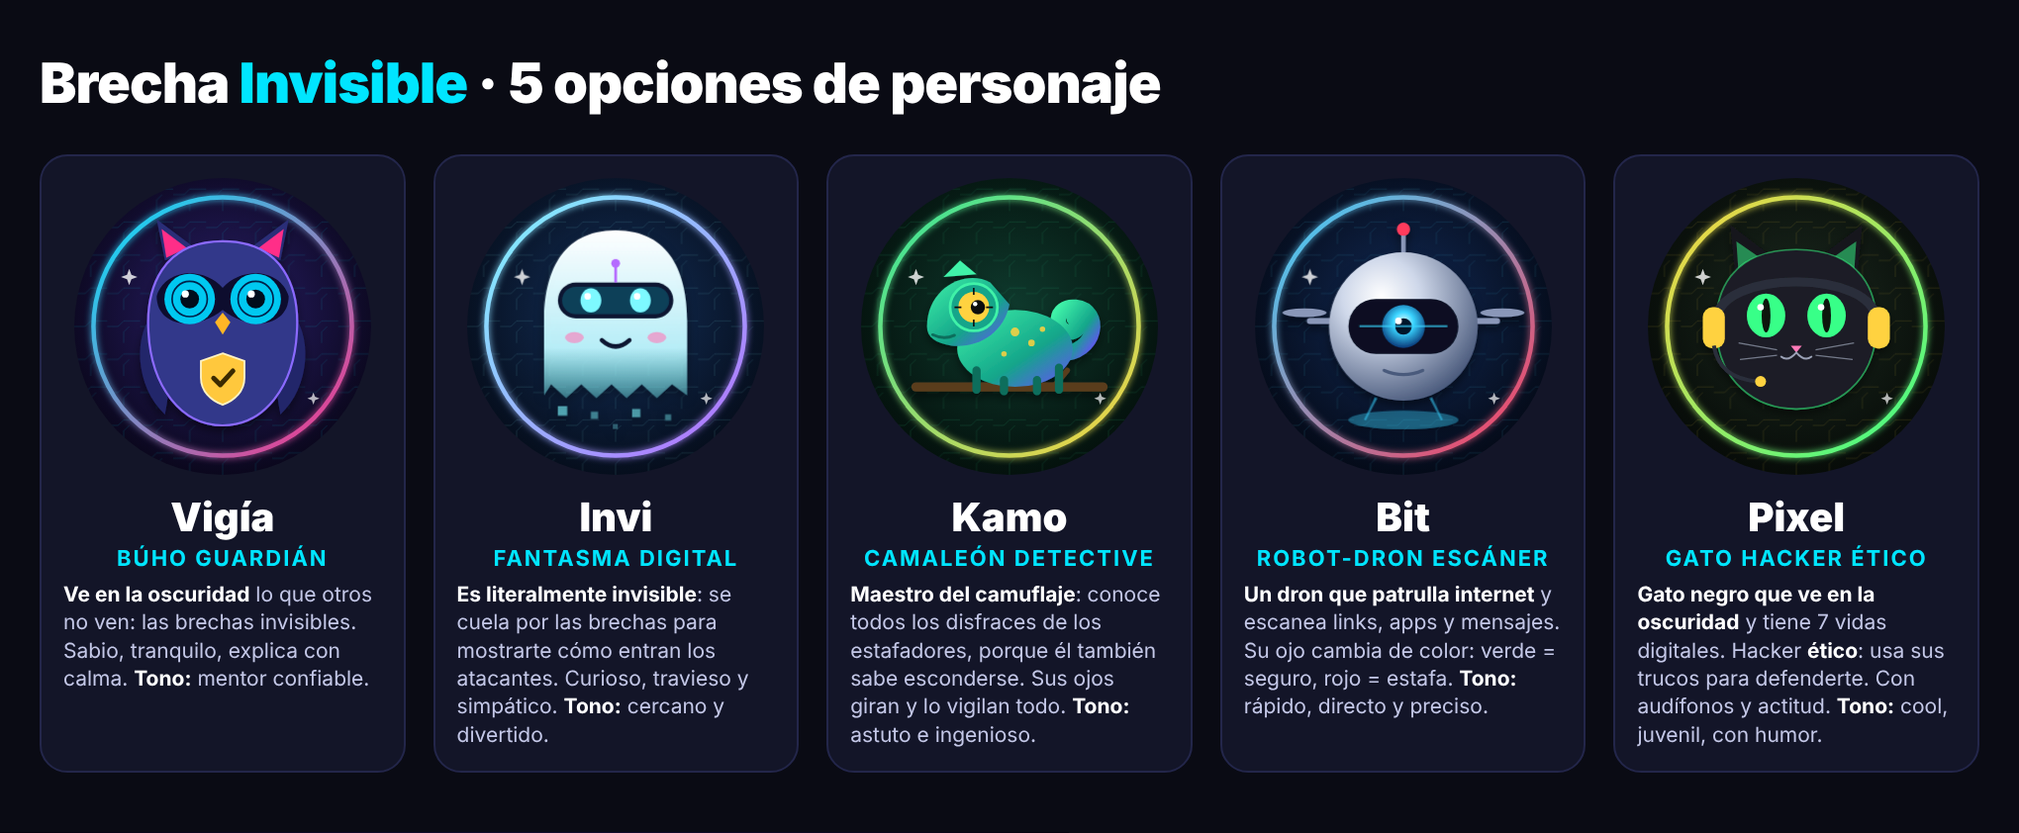
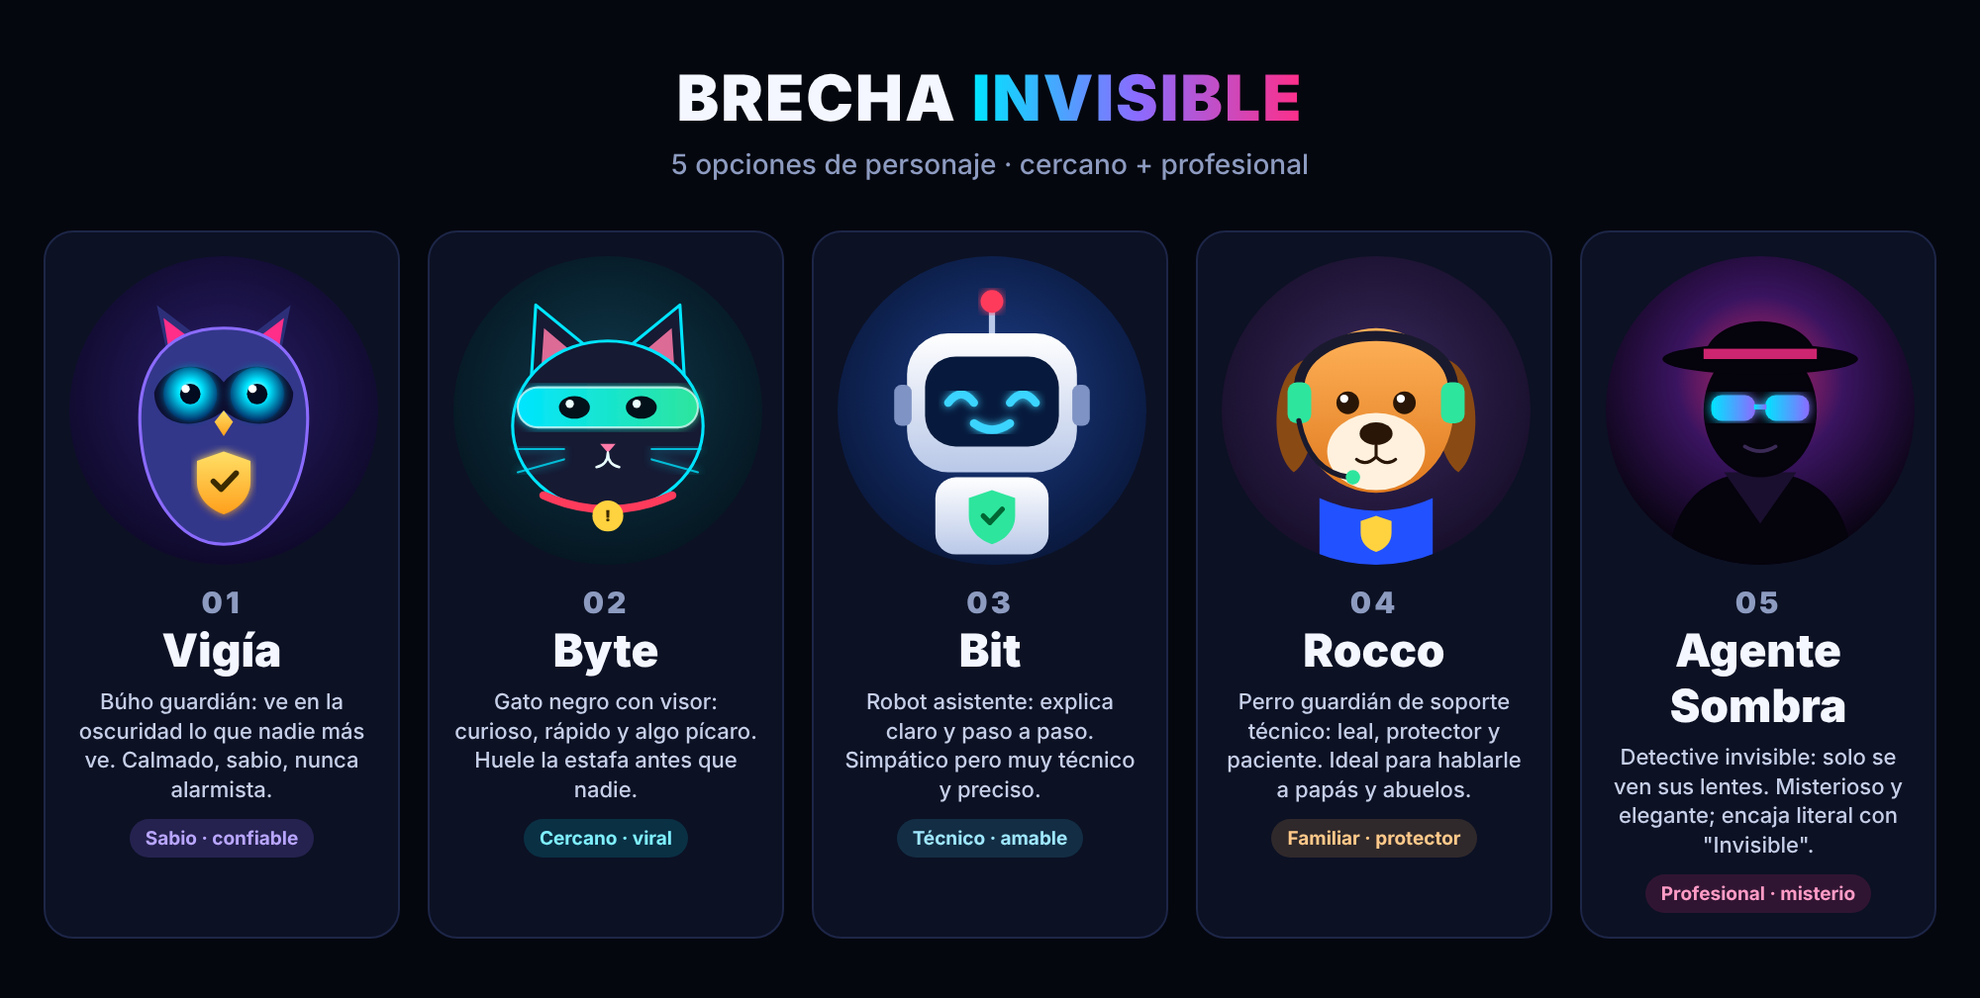
Brecha Invisible: 5 propuestas de personaje
Claude-Session: https://claude.ai/code/session_016hoaWVheZW2tahB4y2H6aY

diff --git a/marca/personajes.html b/marca/personajes.html
@@ -1,88 +1,117 @@
 <!doctype html><html><head><meta charset="utf-8"><title>Personajes Brecha Invisible</title>
-<style>*{margin:0;box-sizing:border-box}body{background:#0a0b14;font-family:Inter,system-ui,sans-serif;color:#fff}
-#sheet{width:2040px;padding:50px 40px 60px;display:grid;grid-template-columns:repeat(5,1fr);gap:28px}
-h1{grid-column:1/-1;font-size:56px;font-weight:900;letter-spacing:-1px;margin-bottom:10px}h1 span{color:#00e5ff}
-.c{background:#131528;border:2px solid #23264a;border-radius:28px;padding:22px;text-align:center}
-.c svg{width:300px;height:300px;border-radius:50%;display:block;margin:0 auto 18px}
-.n{font-size:40px;font-weight:900}.t{font-size:22px;color:#00e5ff;font-weight:700;margin:4px 0 10px;text-transform:uppercase;letter-spacing:2px}
-.d{font-size:21px;line-height:1.35;color:#c4c8e8;text-align:left}.d b{color:#fff}
-.v{width:1080px;height:1080px}</style></head><body>
-<div id="sheet"><h1>Brecha <span>Invisible</span> · 5 opciones de personaje</h1></div>
-<div id="solo"></div>
-<script>
-const frame=(id,c1,c2,inner,bg1,bg2)=>`<svg viewBox="0 0 1080 1080" id="${id}"><defs>
-<radialGradient id="${id}bg" cx="50%" cy="45%" r="65%"><stop offset="0" stop-color="${bg1}"/><stop offset="1" stop-color="${bg2}"/></radialGradient>
-<linearGradient id="${id}ring" x1="0" y1="0" x2="1" y2="1"><stop offset="0" stop-color="${c1}"/><stop offset="1" stop-color="${c2}"/></linearGradient>
-<filter id="${id}g" x="-50%" y="-50%" width="200%" height="200%"><feGaussianBlur stdDeviation="14" result="b"/><feMerge><feMergeNode in="b"/><feMergeNode in="SourceGraphic"/></feMerge></filter>
-<filter id="${id}sh"><feDropShadow dx="0" dy="18" stdDeviation="18" flood-color="#000" flood-opacity=".5"/></filter>
-<pattern id="${id}p" width="120" height="120" patternUnits="userSpaceOnUse"><path d="M0 60 H40 L60 40 H120 M60 120 V80 L80 60" fill="none" stroke="${c1}" stroke-opacity=".14" stroke-width="3"/></pattern></defs>
-<rect width="1080" height="1080" fill="url(#${id}bg)"/><rect width="1080" height="1080" fill="url(#${id}p)"/>
-<circle cx="540" cy="540" r="470" fill="none" stroke="url(#${id}ring)" stroke-width="16" filter="url(#${id}g)"/>
-<g filter="url(#${id}sh)">${inner}</g>
-<g fill="#fff"><path d="M200 330 l8 22 22 8 -22 8 -8 22 -8 -22 -22 -8 22 -8z" opacity=".8"/><path d="M870 780 l6 16 16 6 -16 6 -6 16 -6 -16 -16 -6 16 -6z" opacity=".7"/></g></svg>`;
+<link href="https://fonts.googleapis.com/css2?family=Inter:wght@500;700;900&display=swap" rel="stylesheet">
+<style>
+*{margin:0;box-sizing:border-box}
+body{background:#05070f;font-family:Inter,"Inter Display",system-ui,sans-serif;color:#f4f7ff;width:2000px;padding:60px}
+h1{font-size:64px;font-weight:900;letter-spacing:2px;text-align:center}
+h1 span{background:linear-gradient(90deg,#00e5ff,#8b6bff,#ff2e88);-webkit-background-clip:text;color:transparent}
+.sub{text-align:center;color:#8d9bc0;font-size:28px;margin:12px 0 50px}
+.row{display:flex;gap:28px;justify-content:center}
+.c{width:360px;background:#0c1124;border:2px solid #1d2647;border-radius:30px;padding:24px;text-align:center}
+.av{width:312px;height:312px;border-radius:50%;overflow:hidden;margin:0 auto 20px}
+.av svg{width:100%;height:100%;display:block}
+.n{font-size:30px;font-weight:900;color:#8d9bc0;letter-spacing:3px}
+.nm{font-size:46px;font-weight:900;margin:2px 0 10px}
+.t{font-size:22px;color:#c6cfe8;line-height:1.35;min-height:118px}
+.tag{display:inline-block;margin-top:14px;padding:8px 16px;border-radius:999px;font-size:19px;font-weight:700}
+</style></head><body>
+<h1>BRECHA <span>INVISIBLE</span></h1>
+<div class="sub">5 opciones de personaje · cercano + profesional</div>
+<div class="row">
 
-const P=[
-{id:"vigia",n:"Vigía",t:"Búho guardián",c1:"#00e5ff",c2:"#ff2e88",bg1:"#2a1f6b",bg2:"#05030f",
- d:"<b>Ve en la oscuridad</b> lo que otros no ven: las brechas invisibles. Sabio, tranquilo, explica con calma. <b>Tono:</b> mentor confiable.",
- svg:`<path d="M330 300 L300 150 L440 255 Z" fill="#2c2f78"/><path d="M750 300 L780 150 L640 255 Z" fill="#2c2f78"/>
- <path d="M335 290 L318 185 L410 255 Z" fill="#ff2e88"/><path d="M745 290 L762 185 L670 255 Z" fill="#ff2e88"/>
- <path d="M300 480 C210 560 220 760 330 860 C350 760 360 620 360 520 Z" fill="#23266a"/><path d="M780 480 C870 560 860 760 750 860 C730 760 720 620 720 520 Z" fill="#23266a"/>
- <path d="M540 230 C760 230 820 400 810 560 C800 760 690 900 540 900 C390 900 280 760 270 560 C260 400 320 230 540 230 Z" fill="#33378a" stroke="#8b6bff" stroke-width="8"/>
- <path d="M300 430 C330 330 470 320 540 400 C610 320 750 330 780 430 C780 540 640 560 540 480 C440 560 300 540 300 430 Z" fill="#0d0e2e"/>
- <circle cx="420" cy="440" r="92" fill="#00c8f0"/><circle cx="660" cy="440" r="92" fill="#00c8f0"/><circle cx="420" cy="440" r="64" fill="none" stroke="#03204a" stroke-width="6"/><circle cx="660" cy="440" r="64" fill="none" stroke="#03204a" stroke-width="6"/>
- <circle cx="420" cy="440" r="34" fill="#020b1f"/><circle cx="660" cy="440" r="34" fill="#020b1f"/><circle cx="404" cy="422" r="13" fill="#fff"/><circle cx="644" cy="422" r="13" fill="#fff"/>
- <path d="M540 490 L568 525 L540 570 L512 525 Z" fill="#ffb627"/>
- <g transform="translate(540 715) scale(1.1)"><path d="M0 -70 L72 -45 V10 C72 55 40 85 0 100 C-40 85 -72 55 -72 10 V-45 Z" fill="#ffc83d" stroke="#fff3c4" stroke-width="6"/><path d="M-30 12 L-8 34 L34 -12" fill="none" stroke="#3b2a00" stroke-width="16" stroke-linecap="round" stroke-linejoin="round"/></g>`},
-{id:"invi",n:"Invi",t:"Fantasma digital",c1:"#7df9ff",c2:"#b56bff",bg1:"#14305a",bg2:"#030812",
- d:"<b>Es literalmente invisible</b>: se cuela por las brechas para mostrarte cómo entran los atacantes. Curioso, travieso y simpático. <b>Tono:</b> cercano y divertido.",
- svg:`<defs><linearGradient id="gh" x1="0" y1="0" x2="0" y2="1"><stop offset="0" stop-color="#ffffff"/><stop offset=".7" stop-color="#bff6ff" stop-opacity=".95"/><stop offset="1" stop-color="#7df9ff" stop-opacity=".35"/></linearGradient></defs>
- <path d="M540 190 C740 190 800 350 800 520 V790 L745 750 L690 800 L635 750 L580 800 L525 750 L470 800 L415 750 L360 800 L305 750 L280 790 V520 C280 350 340 190 540 190 Z" fill="url(#gh)"/>
- <g fill="#7df9ff"><rect x="330" y="830" width="34" height="34" opacity=".6"/><rect x="450" y="850" width="26" height="26" opacity=".45"/><rect x="600" y="840" width="30" height="30" opacity=".55"/><rect x="720" y="860" width="22" height="22" opacity=".4"/><rect x="530" y="895" width="18" height="18" opacity=".3"/></g>
- <rect x="330" y="380" width="420" height="130" rx="65" fill="#0b1630"/><rect x="345" y="395" width="390" height="100" rx="50" fill="#00e5ff" opacity=".2"/>
- <ellipse cx="450" cy="445" rx="38" ry="44" fill="#7df9ff"/><ellipse cx="630" cy="445" rx="38" ry="44" fill="#7df9ff"/><circle cx="438" cy="430" r="12" fill="#fff"/><circle cx="618" cy="430" r="12" fill="#fff"/>
- <path d="M490 590 Q540 635 590 590" fill="none" stroke="#0b1630" stroke-width="16" stroke-linecap="round"/>
- <ellipse cx="390" cy="580" rx="34" ry="20" fill="#ff7ab8" opacity=".6"/><ellipse cx="690" cy="580" rx="34" ry="20" fill="#ff7ab8" opacity=".6"/>
- <path d="M540 380 V320" stroke="#b56bff" stroke-width="10"/><circle cx="540" cy="310" r="16" fill="#b56bff"/>`},
-{id:"kamo",n:"Kamo",t:"Camaleón detective",c1:"#2ee59d",c2:"#ffd23f",bg1:"#0f3b2e",bg2:"#020a07",
- d:"<b>Maestro del camuflaje</b>: conoce todos los disfraces de los estafadores, porque él también sabe esconderse. Sus ojos giran y lo vigilan todo. <b>Tono:</b> astuto e ingenioso.",
- svg:`<defs><linearGradient id="kb" x1="0" y1="0" x2="1" y2="1"><stop offset="0" stop-color="#3ff2a8"/><stop offset=".6" stop-color="#14a58a"/><stop offset="1" stop-color="#6b4bff"/></linearGradient></defs>
- <path d="M200 760 H880" stroke="#5a3d1e" stroke-width="34" stroke-linecap="round"/><path d="M700 760 l50 -60" stroke="#5a3d1e" stroke-width="20" stroke-linecap="round"/>
- <path d="M720 640 C860 640 880 480 780 470 C700 462 700 560 760 560 C800 560 800 510 775 510" fill="none" stroke="url(#kb)" stroke-width="56" stroke-linecap="round"/>
- <ellipse cx="560" cy="620" rx="210" ry="140" fill="url(#kb)"/>
- <path d="M420 700 V770 M520 735 V775 M640 735 V775 M720 690 V770" stroke="#0d6e5c" stroke-width="30" stroke-linecap="round"/>
- <path d="M240 540 C240 400 380 330 470 380 L540 460 C520 560 430 620 330 610 C270 600 240 580 240 540 Z" fill="url(#kb)"/>
- <path d="M300 360 L360 300 L420 350" fill="#3ff2a8"/>
- <circle cx="410" cy="470" r="86" fill="#14a58a" stroke="#3ff2a8" stroke-width="10"/><circle cx="410" cy="470" r="56" fill="#ffd23f"/>
- <circle cx="425" cy="470" r="26" fill="#111"/><path d="M410 400 V425 M410 515 V540 M340 470 H365 M455 470 H480" stroke="#111" stroke-width="6"/><circle cx="415" cy="458" r="8" fill="#fff"/>
- <path d="M260 570 Q300 590 340 572" fill="none" stroke="#0d6e5c" stroke-width="10" stroke-linecap="round"/>
- <g fill="#ffd23f" opacity=".85"><circle cx="560" cy="560" r="16"/><circle cx="620" cy="600" r="12"/><circle cx="520" cy="640" r="10"/><circle cx="660" cy="550" r="10"/></g>`},
-{id:"bit",n:"Bit",t:"Robot-dron escáner",c1:"#3ad4ff",c2:"#ff3b5c",bg1:"#122a55",bg2:"#02050e",
- d:"<b>Un dron que patrulla internet</b> y escanea links, apps y mensajes. Su ojo cambia de color: verde = seguro, rojo = estafa. <b>Tono:</b> rápido, directo y preciso.",
- svg:`<defs><radialGradient id="bm" cx="35%" cy="30%" r="75%"><stop offset="0" stop-color="#ffffff"/><stop offset=".35" stop-color="#cfd8ea"/><stop offset="1" stop-color="#4a5a7c"/></radialGradient>
- <radialGradient id="be" cx="50%" cy="40%" r="60%"><stop offset="0" stop-color="#eaffff"/><stop offset=".4" stop-color="#3ad4ff"/><stop offset="1" stop-color="#0a3a7a"/></radialGradient></defs>
- <ellipse cx="540" cy="880" rx="200" ry="34" fill="#3ad4ff" opacity=".35"/>
- <path d="M440 800 L400 880 M640 800 L680 880" stroke="#3ad4ff" stroke-width="8" opacity=".5"/>
- <path d="M300 520 H200 M780 520 H880" stroke="#8a97b8" stroke-width="22" stroke-linecap="round"/><ellipse cx="180" cy="490" rx="80" ry="16" fill="#8a97b8"/><ellipse cx="900" cy="490" rx="80" ry="16" fill="#8a97b8"/>
- <circle cx="540" cy="540" r="270" fill="url(#bm)"/>
- <path d="M540 270 V200" stroke="#8a97b8" stroke-width="16"/><circle cx="540" cy="186" r="24" fill="#ff3b5c"/>
- <rect x="340" y="440" width="400" height="200" rx="100" fill="#0a1124"/>
- <circle cx="540" cy="540" r="78" fill="url(#be)"/><circle cx="540" cy="540" r="30" fill="#04122b"/><circle cx="522" cy="520" r="12" fill="#fff"/>
- <rect x="380" y="535" width="320" height="8" fill="#3ad4ff" opacity=".6"/>
- <path d="M470 700 Q540 730 610 700" fill="none" stroke="#4a5a7c" stroke-width="12" stroke-linecap="round"/>`},
-{id:"pixel",n:"Pixel",t:"Gato hacker ético",c1:"#ffd23f",c2:"#39ff88",bg1:"#1c2a1f",bg2:"#030604",
- d:"<b>Gato negro que ve en la oscuridad</b> y tiene 7 vidas digitales. Hacker <b>ético</b>: usa sus trucos para defenderte. Con audífonos y actitud. <b>Tono:</b> cool, juvenil, con humor.",
- svg:`<path d="M320 380 L300 170 L470 300 Z" fill="#15161c"/><path d="M760 380 L780 170 L610 300 Z" fill="#15161c"/>
- <path d="M330 350 L322 230 L430 305 Z" fill="#39ff88" opacity=".5"/><path d="M750 350 L758 230 L650 305 Z" fill="#39ff88" opacity=".5"/>
- <path d="M540 260 C780 260 840 420 830 560 C820 740 690 840 540 840 C390 840 260 740 250 560 C240 420 300 260 540 260 Z" fill="#1b1d25" stroke="#39ff88" stroke-width="6" stroke-opacity=".5"/>
- <path d="M250 520 C250 330 830 330 830 520" fill="none" stroke="#2b2e3a" stroke-width="34"/>
- <rect x="200" y="470" width="80" height="150" rx="36" fill="#ffd23f"/><rect x="800" y="470" width="80" height="150" rx="36" fill="#ffd23f"/>
- <path d="M240 610 Q260 730 400 740" fill="none" stroke="#2b2e3a" stroke-width="14"/><circle cx="410" cy="740" r="20" fill="#ffd23f"/>
- <ellipse cx="430" cy="500" rx="70" ry="80" fill="#39ff88"/><ellipse cx="650" cy="500" rx="70" ry="80" fill="#39ff88"/>
- <ellipse cx="430" cy="500" rx="16" ry="62" fill="#07130b"/><ellipse cx="650" cy="500" rx="16" ry="62" fill="#07130b"/><circle cx="410" cy="470" r="12" fill="#fff"/><circle cx="630" cy="470" r="12" fill="#fff"/>
- <path d="M520 610 L560 610 L540 635 Z" fill="#ff7ab8"/><path d="M540 635 Q510 670 485 650 M540 635 Q570 670 595 650" fill="none" stroke="#9aa0b5" stroke-width="7" stroke-linecap="round"/>
- <g stroke="#9aa0b5" stroke-width="5" opacity=".7"><path d="M470 625 L330 600 M470 645 L335 660 M610 625 L750 600 M610 645 L745 660"/></g>`}
-];
-const sheet=document.getElementById('sheet'),solo=document.getElementById('solo');
-P.forEach(p=>{sheet.insertAdjacentHTML('beforeend',`<div class="c">${frame(p.id,p.c1,p.c2,p.svg,p.bg1,p.bg2)}<div class="n">${p.n}</div><div class="t">${p.t}</div><div class="d">${p.d}</div></div>`);
- solo.insertAdjacentHTML('beforeend',`<div class="v" id="solo-${p.id}">${frame('s'+p.id,p.c1,p.c2,p.svg,p.bg1,p.bg2).replace('<svg ','<svg width="1080" height="1080" ')}</div>`);});
-</script></body></html>
+<!-- 1 VIGÍA búho -->
+<div class="c"><div class="av" id="p1"><svg viewBox="0 0 600 600">
+<defs><radialGradient id="b1" cx="50%" cy="45%" r="65%"><stop offset="0" stop-color="#2a1f6b"/><stop offset="1" stop-color="#0a0620"/></radialGradient>
+<radialGradient id="e1" cx="50%" cy="45%" r="55%"><stop offset="0" stop-color="#eaffff"/><stop offset=".4" stop-color="#00e5ff"/><stop offset="1" stop-color="#03306a"/></radialGradient>
+<linearGradient id="g1" x1="0" y1="0" x2="0" y2="1"><stop offset="0" stop-color="#ffe066"/><stop offset="1" stop-color="#ff9f1c"/></linearGradient>
+<filter id="f1"><feGaussianBlur stdDeviation="8" result="b"/><feMerge><feMergeNode in="b"/><feMergeNode in="SourceGraphic"/></feMerge></filter></defs>
+<rect width="600" height="600" fill="url(#b1)"/>
+<path d="M190 190 L170 95 L255 160Z M410 190 L430 95 L345 160Z" fill="#2c2f78"/><path d="M193 182 L183 120 L238 162Z M407 182 L417 120 L362 162Z" fill="#ff2e88"/>
+<path d="M300 140 C430 140 470 240 462 340 C455 460 390 560 300 560 C210 560 145 460 138 340 C130 240 170 140 300 140Z" fill="#33378a" stroke="#8b6bff" stroke-width="6"/>
+<path d="M165 265 C185 205 265 200 300 245 C335 200 415 205 435 265 C435 330 355 345 300 300 C245 345 165 330 165 265Z" fill="#0d0e2e"/>
+<g filter="url(#f1)"><circle cx="235" cy="268" r="52" fill="url(#e1)"/><circle cx="365" cy="268" r="52" fill="url(#e1)"/></g>
+<circle cx="235" cy="268" r="20" fill="#020b1f"/><circle cx="365" cy="268" r="20" fill="#020b1f"/><circle cx="226" cy="258" r="8" fill="#fff"/><circle cx="356" cy="258" r="8" fill="#fff"/>
+<path d="M300 300 L318 322 L300 350 L282 322Z" fill="url(#g1)"/>
+<g transform="translate(300 430)" filter="url(#f1)"><path d="M0 -50 L52 -32 V8 C52 40 28 62 0 72 C-28 62 -52 40 -52 8 V-32Z" fill="url(#g1)"/><path d="M-20 8 L-5 23 L24 -8" fill="none" stroke="#3b2a00" stroke-width="11" stroke-linecap="round" stroke-linejoin="round"/></g>
+</svg></div><div class="n">01</div><div class="nm">Vigía</div>
+<div class="t">Búho guardián: ve en la oscuridad lo que nadie más ve. Calmado, sabio, nunca alarmista.</div>
+<span class="tag" style="background:#8b6bff33;color:#b9a6ff">Sabio · confiable</span></div>
+
+<!-- 2 BYTE gato -->
+<div class="c"><div class="av"><svg viewBox="0 0 600 600">
+<defs><radialGradient id="b2" cx="50%" cy="45%" r="65%"><stop offset="0" stop-color="#103a4d"/><stop offset="1" stop-color="#03111a"/></radialGradient>
+<linearGradient id="v2" x1="0" x2="1"><stop offset="0" stop-color="#00e5ff"/><stop offset="1" stop-color="#2ee59d"/></linearGradient>
+<filter id="f2"><feGaussianBlur stdDeviation="9" result="b"/><feMerge><feMergeNode in="b"/><feMergeNode in="SourceGraphic"/></feMerge></filter></defs>
+<rect width="600" height="600" fill="url(#b2)"/>
+<path d="M150 260 L160 95 L270 185Z M450 260 L440 95 L330 185Z" fill="#161a33" stroke="#00e5ff" stroke-width="6" stroke-linejoin="round"/>
+<path d="M170 230 L176 140 L235 190Z M430 230 L424 140 L365 190Z" fill="#ff7aa8" opacity=".85"/>
+<ellipse cx="300" cy="330" rx="185" ry="165" fill="#161a33" stroke="#00e5ff" stroke-width="6"/>
+<rect x="125" y="255" width="350" height="78" rx="39" fill="url(#v2)" filter="url(#f2)"/>
+<rect x="125" y="255" width="350" height="78" rx="39" fill="none" stroke="#eaffff" stroke-width="4" opacity=".7"/>
+<g fill="#03111a"><ellipse cx="235" cy="294" rx="30" ry="22"/><ellipse cx="365" cy="294" rx="30" ry="22"/></g>
+<g fill="#eaffff"><circle cx="226" cy="287" r="8"/><circle cx="356" cy="287" r="8"/></g>
+<path d="M285 365 L315 365 L300 382Z" fill="#ff7aa8"/>
+<path d="M300 382 Q300 405 278 410 M300 382 Q300 405 322 410" fill="none" stroke="#eaffff" stroke-width="5" stroke-linecap="round"/>
+<g stroke="#00e5ff" stroke-width="4" stroke-linecap="round" opacity=".8" filter="url(#f2)"><path d="M215 375 H120 M215 395 L125 420 M385 375 H480 M385 395 L475 420"/></g>
+<path d="M175 465 Q300 520 425 465" fill="none" stroke="#ff3b5c" stroke-width="16" stroke-linecap="round"/>
+<g transform="translate(300 505)"><circle r="30" fill="#ffd23f"/><text y="11" text-anchor="middle" font-size="30" font-weight="900" fill="#3b2a00" font-family="Inter">!</text></g>
+</svg></div><div class="n">02</div><div class="nm">Byte</div>
+<div class="t">Gato negro con visor: curioso, rápido y algo pícaro. Huele la estafa antes que nadie.</div>
+<span class="tag" style="background:#00e5ff26;color:#7ff0ff">Cercano · viral</span></div>
+
+<!-- 3 BIT robot -->
+<div class="c"><div class="av"><svg viewBox="0 0 600 600">
+<defs><radialGradient id="b3" cx="50%" cy="45%" r="65%"><stop offset="0" stop-color="#1d3f8a"/><stop offset="1" stop-color="#061230"/></radialGradient>
+<linearGradient id="h3" x1="0" y1="0" x2="0" y2="1"><stop offset="0" stop-color="#ffffff"/><stop offset="1" stop-color="#b9c8e8"/></linearGradient>
+<filter id="f3"><feGaussianBlur stdDeviation="8" result="b"/><feMerge><feMergeNode in="b"/><feMergeNode in="SourceGraphic"/></feMerge></filter></defs>
+<rect width="600" height="600" fill="url(#b3)"/>
+<path d="M300 150 V100" stroke="#b9c8e8" stroke-width="12"/><circle cx="300" cy="88" r="22" fill="#ff3b5c" filter="url(#f3)"/>
+<rect x="135" y="150" width="330" height="270" rx="80" fill="url(#h3)"/>
+<rect x="110" y="250" width="34" height="80" rx="14" fill="#7f93c4"/><rect x="456" y="250" width="34" height="80" rx="14" fill="#7f93c4"/>
+<rect x="170" y="195" width="260" height="175" rx="60" fill="#071a3d"/>
+<g fill="none" stroke="#3ad4ff" stroke-width="16" stroke-linecap="round" filter="url(#f3)"><path d="M215 285 Q240 252 265 285"/><path d="M335 285 Q360 252 385 285"/><path d="M265 325 Q300 350 335 325"/></g>
+<rect x="190" y="430" width="220" height="150" rx="40" fill="url(#h3)"/>
+<g transform="translate(300 500)"><path d="M0 -45 L45 -30 V5 C45 33 25 52 0 60 C-25 52 -45 33 -45 5 V-30Z" fill="#2ee59d"/><path d="M-17 5 L-4 18 L20 -8" fill="none" stroke="#063" stroke-width="10" stroke-linecap="round" stroke-linejoin="round"/></g>
+</svg></div><div class="n">03</div><div class="nm">Bit</div>
+<div class="t">Robot asistente: explica claro y paso a paso. Simpático pero muy técnico y preciso.</div>
+<span class="tag" style="background:#3ad4ff26;color:#9fe7ff">Técnico · amable</span></div>
+
+<!-- 4 ROCCO perro -->
+<div class="c"><div class="av"><svg viewBox="0 0 600 600">
+<defs><radialGradient id="b4" cx="50%" cy="45%" r="65%"><stop offset="0" stop-color="#3a2a5e"/><stop offset="1" stop-color="#120a22"/></radialGradient>
+<linearGradient id="d4" x1="0" y1="0" x2="0" y2="1"><stop offset="0" stop-color="#ffb259"/><stop offset="1" stop-color="#e07a1f"/></linearGradient></defs>
+<rect width="600" height="600" fill="url(#b4)"/>
+<path d="M165 200 C95 220 90 380 140 420 C175 400 190 300 205 240Z M435 200 C505 220 510 380 460 420 C425 400 410 300 395 240Z" fill="#8a4a14"/>
+<ellipse cx="300" cy="300" rx="150" ry="160" fill="url(#d4)"/>
+<ellipse cx="300" cy="380" rx="95" ry="75" fill="#fff1dd"/>
+<circle cx="245" cy="285" r="22" fill="#2a1606"/><circle cx="355" cy="285" r="22" fill="#2a1606"/><circle cx="238" cy="277" r="8" fill="#fff"/><circle cx="348" cy="277" r="8" fill="#fff"/>
+<ellipse cx="300" cy="345" rx="32" ry="22" fill="#2a1606"/>
+<path d="M300 368 V390 M300 390 Q280 410 262 395 M300 390 Q320 410 338 395" fill="none" stroke="#2a1606" stroke-width="6" stroke-linecap="round"/>
+<path d="M150 260 C150 120 450 120 450 260" fill="none" stroke="#1a1a2e" stroke-width="20"/>
+<rect x="128" y="245" width="46" height="80" rx="18" fill="#2ee59d"/><rect x="426" y="245" width="46" height="80" rx="18" fill="#2ee59d"/>
+<path d="M150 320 Q170 420 250 430" fill="none" stroke="#1a1a2e" stroke-width="10" stroke-linecap="round"/><circle cx="255" cy="430" r="14" fill="#2ee59d"/>
+<path d="M190 470 Q300 520 410 470 L410 600 L190 600Z" fill="#2251ff"/>
+<g transform="translate(300 535)"><path d="M0 -30 L30 -20 V3 C30 22 17 35 0 40 C-17 35 -30 22 -30 3 V-20Z" fill="#ffd23f"/></g>
+</svg></div><div class="n">04</div><div class="nm">Rocco</div>
+<div class="t">Perro guardián de soporte técnico: leal, protector y paciente. Ideal para hablarle a papás y abuelos.</div>
+<span class="tag" style="background:#ffb25926;color:#ffc98a">Familiar · protector</span></div>
+
+<!-- 5 AGENTE SOMBRA -->
+<div class="c"><div class="av"><svg viewBox="0 0 600 600">
+<defs><radialGradient id="b5" cx="50%" cy="40%" r="60%"><stop offset="0" stop-color="#ff2e88" stop-opacity=".55"/><stop offset=".45" stop-color="#3a1460"/><stop offset="1" stop-color="#07030f"/></radialGradient>
+<linearGradient id="l5" x1="0" x2="1"><stop offset="0" stop-color="#00e5ff"/><stop offset="1" stop-color="#8b6bff"/></linearGradient>
+<filter id="f5"><feGaussianBlur stdDeviation="10" result="b"/><feMerge><feMergeNode in="b"/><feMergeNode in="SourceGraphic"/></feMerge></filter></defs>
+<rect width="600" height="600" fill="url(#b5)"/>
+<path d="M120 600 C130 470 200 420 300 420 C400 420 470 470 480 600Z" fill="#05030c"/>
+<path d="M230 420 L300 520 L370 420" fill="#1a0f2e"/>
+<ellipse cx="300" cy="300" rx="110" ry="130" fill="#05030c"/>
+<ellipse cx="300" cy="200" rx="190" ry="30" fill="#05030c"/>
+<path d="M190 205 C195 100 405 100 410 205Z" fill="#05030c"/>
+<rect x="190" y="180" width="220" height="20" fill="#ff2e88" opacity=".8"/>
+<g filter="url(#f5)"><rect x="205" y="270" width="85" height="50" rx="20" fill="url(#l5)"/><rect x="310" y="270" width="85" height="50" rx="20" fill="url(#l5)"/><rect x="288" y="288" width="24" height="10" fill="url(#l5)"/></g>
+<path d="M270 370 Q300 388 330 370" fill="none" stroke="#3a2a55" stroke-width="7" stroke-linecap="round"/>
+</svg></div><div class="n">05</div><div class="nm">Agente Sombra</div>
+<div class="t">Detective invisible: solo se ven sus lentes. Misterioso y elegante; encaja literal con "Invisible".</div>
+<span class="tag" style="background:#ff2e8826;color:#ff9cc6">Profesional · misterio</span></div>
+
+</div></body></html>
